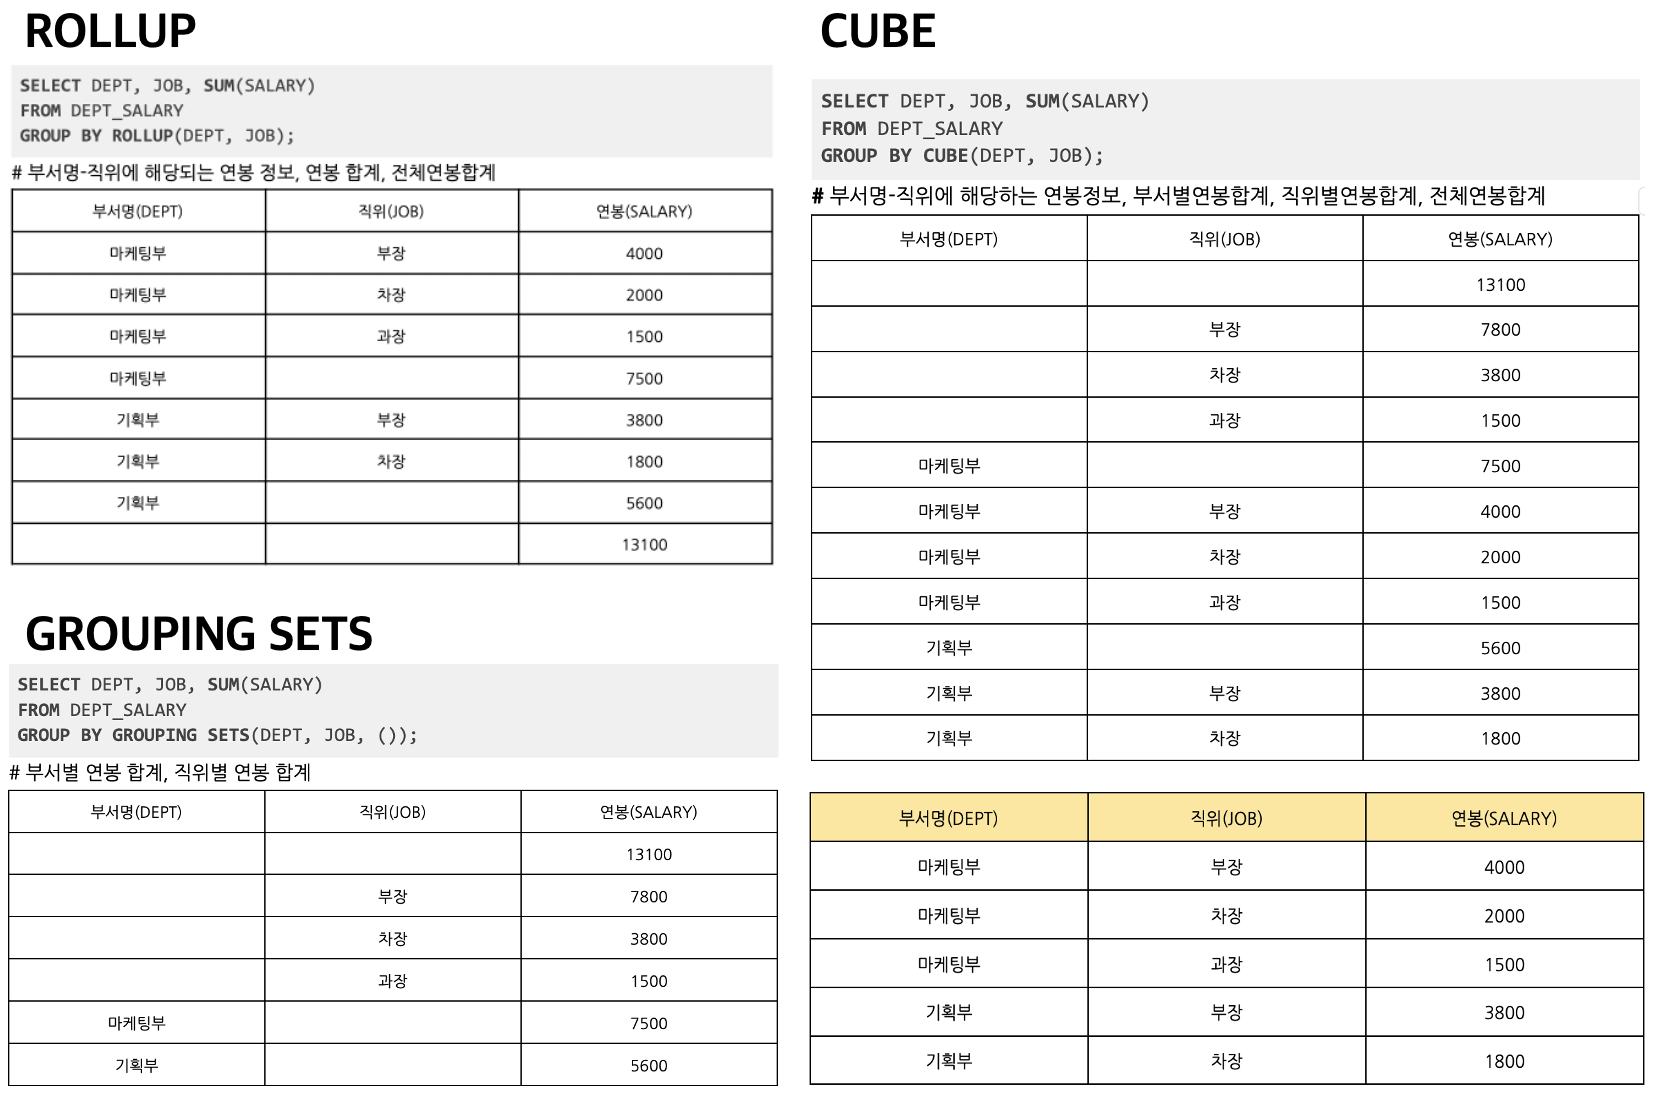
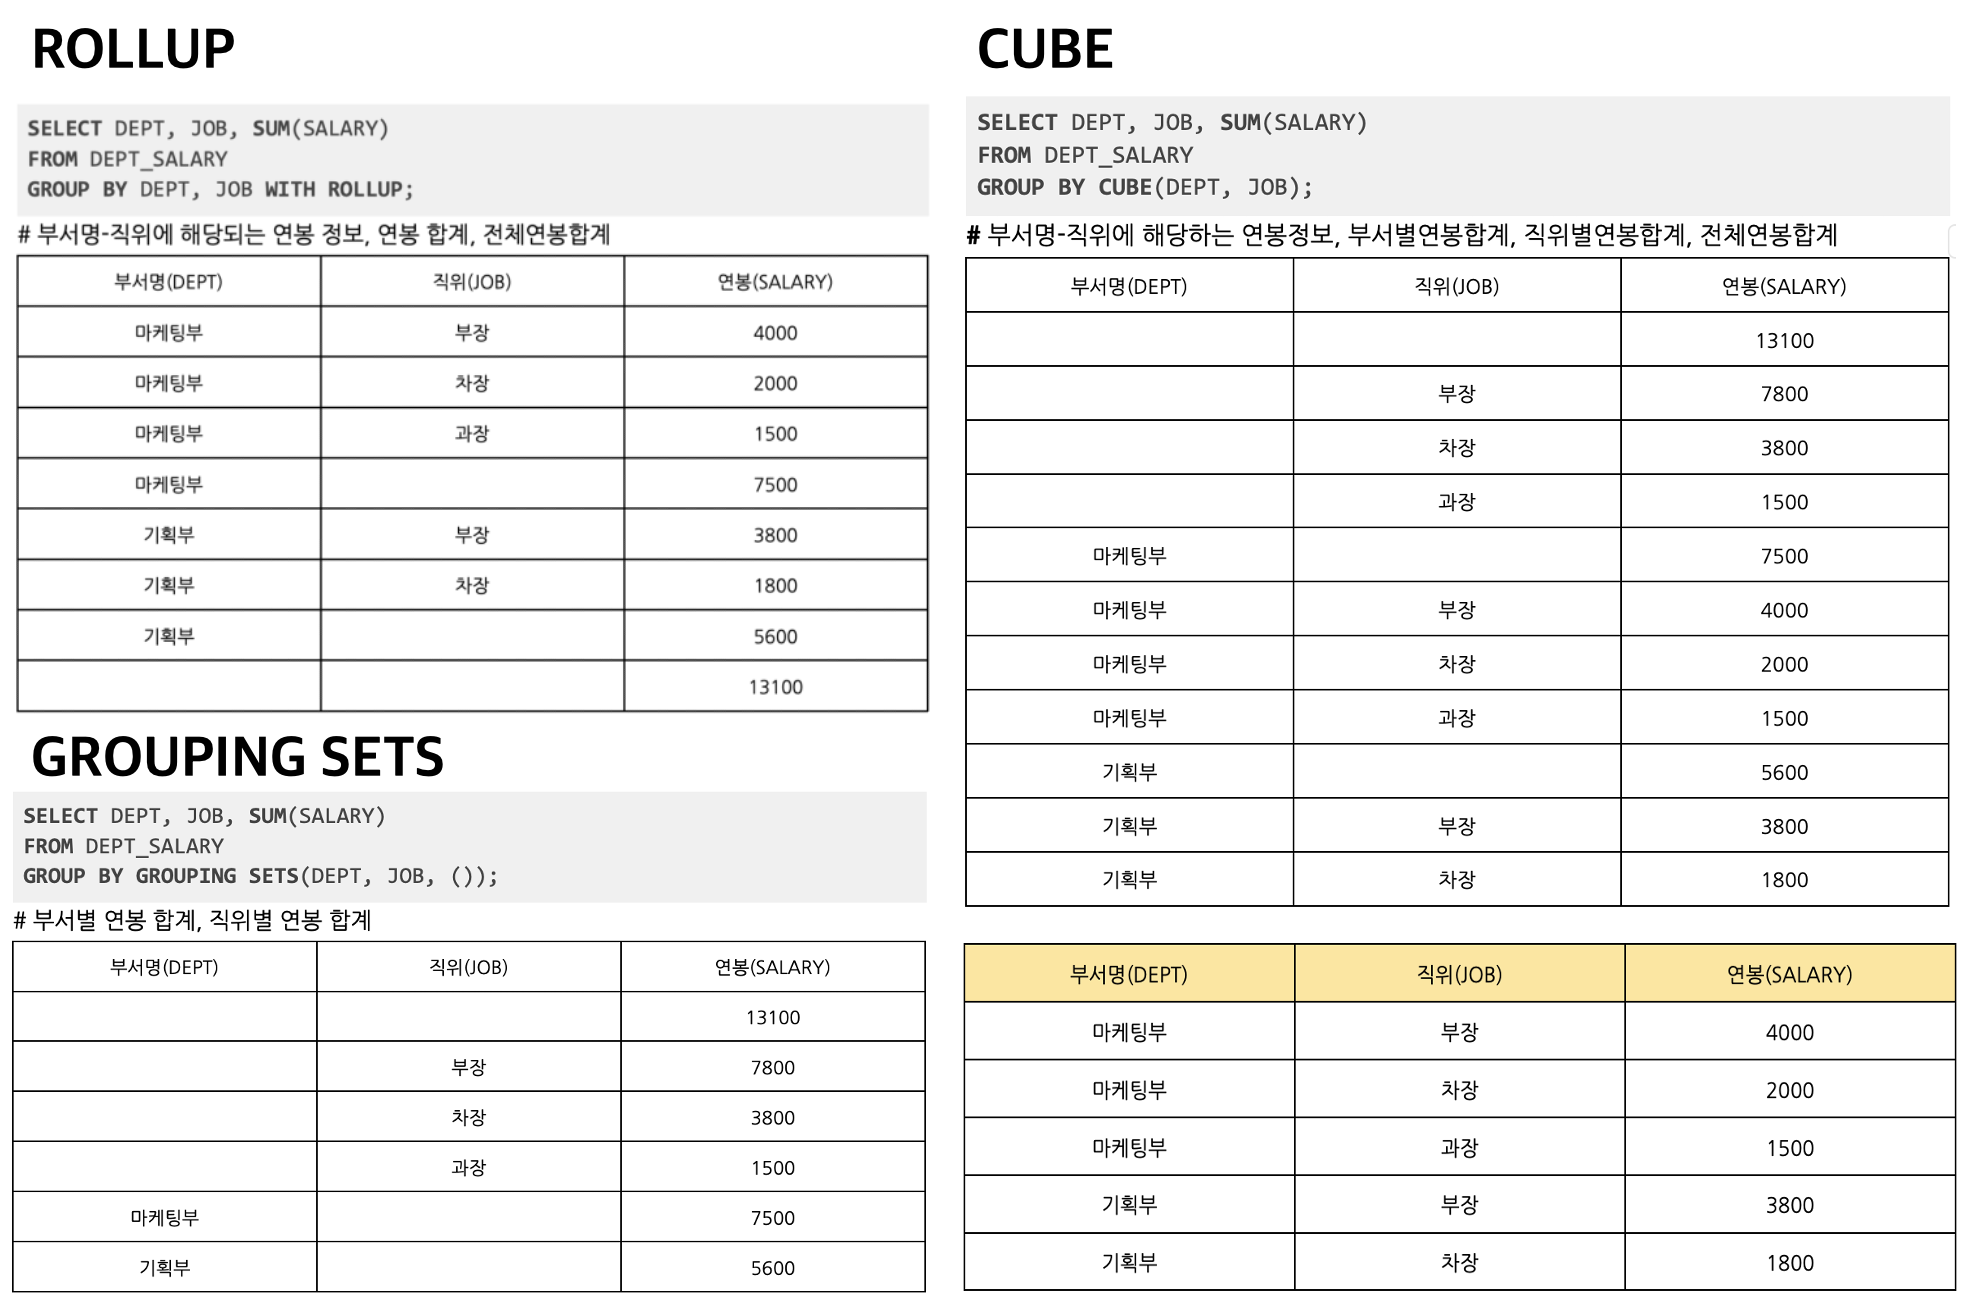
Modify MySQL

Changed region(s): [[0.0, 0.0, 1.0, 0.9945], [0.7083, 0.2797, 0.7699, 0.404]]

diff --git a/docs/db/mysql/dml.md b/docs/db/mysql/dml.md
@@ -9,7 +9,8 @@
 ``` mysql
 SELECT [ALL|DISTINCT] 속성명1, 속성명2... FROM 테이블명1, ...
 [WHERE 조건]
-[GROUP BY 속성명1, ...] [HAVING 그룹조건]
+[GROUP BY 속성명1, ...] 
+[HAVING 그룹조건]
 [ORDER BY 속성 [ASC|DESC]];
 ```
 ![SELECT](../images/select.png)
@@ -92,14 +93,23 @@ FROM 도서 A
 ```
 ![JOIN-RIGHT](../images/join_right.png)
 
-- 완전 외부 조인
+- ~~완전 외부 조인~~ : MySQL은 완전 외부 조인을 지원하지 않으므로 다음과 같이 구현
 ``` mysql
-SELECT A.책번호, A.책명, B.책번호, B.가격 
-FROM 도서 A
-    FULL JOIN 도서가격 B 
-    ON A.책번호 = B.책번호;
+SELECT * FROM A
+LEFT JOIN B ON A.id = B.id
+UNION
+SELECT * FROM A
+RIGHT JOIN B ON A.id = B.id;
 ```
-![JOIN-FULL](../images/join_full.png)
+!!! Note
+    - 완전 외부 조인
+    ``` mysql
+    SELECT A.책번호, A.책명, B.책번호, B.가격 
+    FROM 도서 A
+        FULL JOIN 도서가격 B 
+        ON A.책번호 = B.책번호;
+    ```
+    ![JOIN-FULL](../images/join_full.png)
 
 - 교차 조인 (=Cartesian product: 유효 Join 조건이 없을때 행*행 연산)
 ``` mysql
@@ -201,7 +211,7 @@ WHERE EMP_ID IN (SELECT MGR_ID FROM DEPT);
 SELECT 컬럼1, 컬럼2, ..., 집계함수
 FROM 테이블명
 [WHERE ...]
-GROUP BY [컬럼...] ROLLUP (컬럼1, 컬럼2, ...) 
+GROUP BY [컬럼...] WITH ROLLUP
 [HAVING ...]
 [ORDER BY ...]
 ```
@@ -215,7 +225,7 @@ GROUP BY [컬럼...] ROLLUP (컬럼1, 컬럼2, ...)
 SELECT 컬럼1, ..., 집계함수
 FROM 테이블명
 [WHERE ...]
-GROUP BY [컬럼명1, ...] CUBE (컬럼명a, ...) 
+GROUP BY CUBE (컬럼명a, ...) 
 [HAVING ...]
 [ORDER BY ...]
 ```
@@ -227,8 +237,8 @@ GROUP BY [컬럼명1, ...] CUBE (컬럼명a, ...)
 SELECT 컬럼명1, ..., 집계함수 
 FROM 테이블명
 [WHERE ...]
-GROUP BY [컬럼명1, ...]
-GROUPING SETS(컬럼명1, ...) [HAVING ...]
+GROUP BY GROUPING SETS(컬럼명1, ...) 
+[HAVING ...]
 [ORDER BY ...]
 ```
     - 집계 대상 컬럼들에 대한 개별 집계를 구할 수 있으며, ROLLUP이나 CUBE와는 달리 컬럼 간 순서와 무관한 결과를 얻을 수 있는 그룹 함수
@@ -301,3 +311,9 @@ Q. [학생]테이블에 장길산에 대한 튜플 삭제
 DELETE FROM 학생 
 WHERE 이름='장길산'
 ```
+
+---
+!!! quote
+    - 김정현 (unicodaum@hanmail.net)
+    - 수제비 정보처리기사 실기 (저자:윤영빈, 서용욱, 김학배, 박인상 |출판사:건기원)
+    - [Data-On-Air](https://www.google.com/url?sa=t&rct=j&q=&esrc=s&source=web&cd=&ved=2ahUKEwj6wqqAqaGBAxWZcvUHHUDBAOwQFnoECAYQAQ&url=https%3A%2F%2Fdataonair.or.kr%2F&usg=AOvVaw2_msrIWeT-T38KloheDWme&opi=89978449)

diff --git a/docs/db/mysql/syntax.md b/docs/db/mysql/syntax.md
@@ -133,5 +133,5 @@ LOCK : TABLE 등의 자원을 차지
 ---
 !!! quote
     - 김정현 (unicodaum@hanmail.net)
-    - 2022 수제비 정보처리기사 실기 (저자:윤영빈, 서용욱, 김학배, 박인상 |출판사:건기원)
+    - 수제비 정보처리기사 실기 (저자:윤영빈, 서용욱, 김학배, 박인상 |출판사:건기원)
     - [Data-On-Air](https://www.google.com/url?sa=t&rct=j&q=&esrc=s&source=web&cd=&ved=2ahUKEwj6wqqAqaGBAxWZcvUHHUDBAOwQFnoECAYQAQ&url=https%3A%2F%2Fdataonair.or.kr%2F&usg=AOvVaw2_msrIWeT-T38KloheDWme&opi=89978449)

diff --git a/docs/db/basic.md b/docs/db/basic.md
@@ -43,5 +43,5 @@
 
 !!! quote
     - 김정현 (unicodaum@hanmail.net)
-    - 2022 수제비 정보처리기사 실기 (저자:윤영빈, 서용욱, 김학배, 박인상 |출판사:건기원)
+    - 수제비 정보처리기사 실기 (저자:윤영빈, 서용욱, 김학배, 박인상 |출판사:건기원)
     - [Data-On-Air](https://www.google.com/url?sa=t&rct=j&q=&esrc=s&source=web&cd=&ved=2ahUKEwj6wqqAqaGBAxWZcvUHHUDBAOwQFnoECAYQAQ&url=https%3A%2F%2Fdataonair.or.kr%2F&usg=AOvVaw2_msrIWeT-T38KloheDWme&opi=89978449)

diff --git a/docs/db/mysql/cheat-sheet.md b/docs/db/mysql/cheat-sheet.md
@@ -37,3 +37,7 @@
 ## 논리 관련 함수
 ![LOGICAL](../images/logical.png)
 - `COALESCE(표현식1, 표현식2, …)` : 첫번째로 NULL이 아닌 값 반환, 모든 표현식이 NULL이라면 NULL 리턴
+
+---
+!!! quote
+    - 김정현 (unicodaum@hanmail.net)
